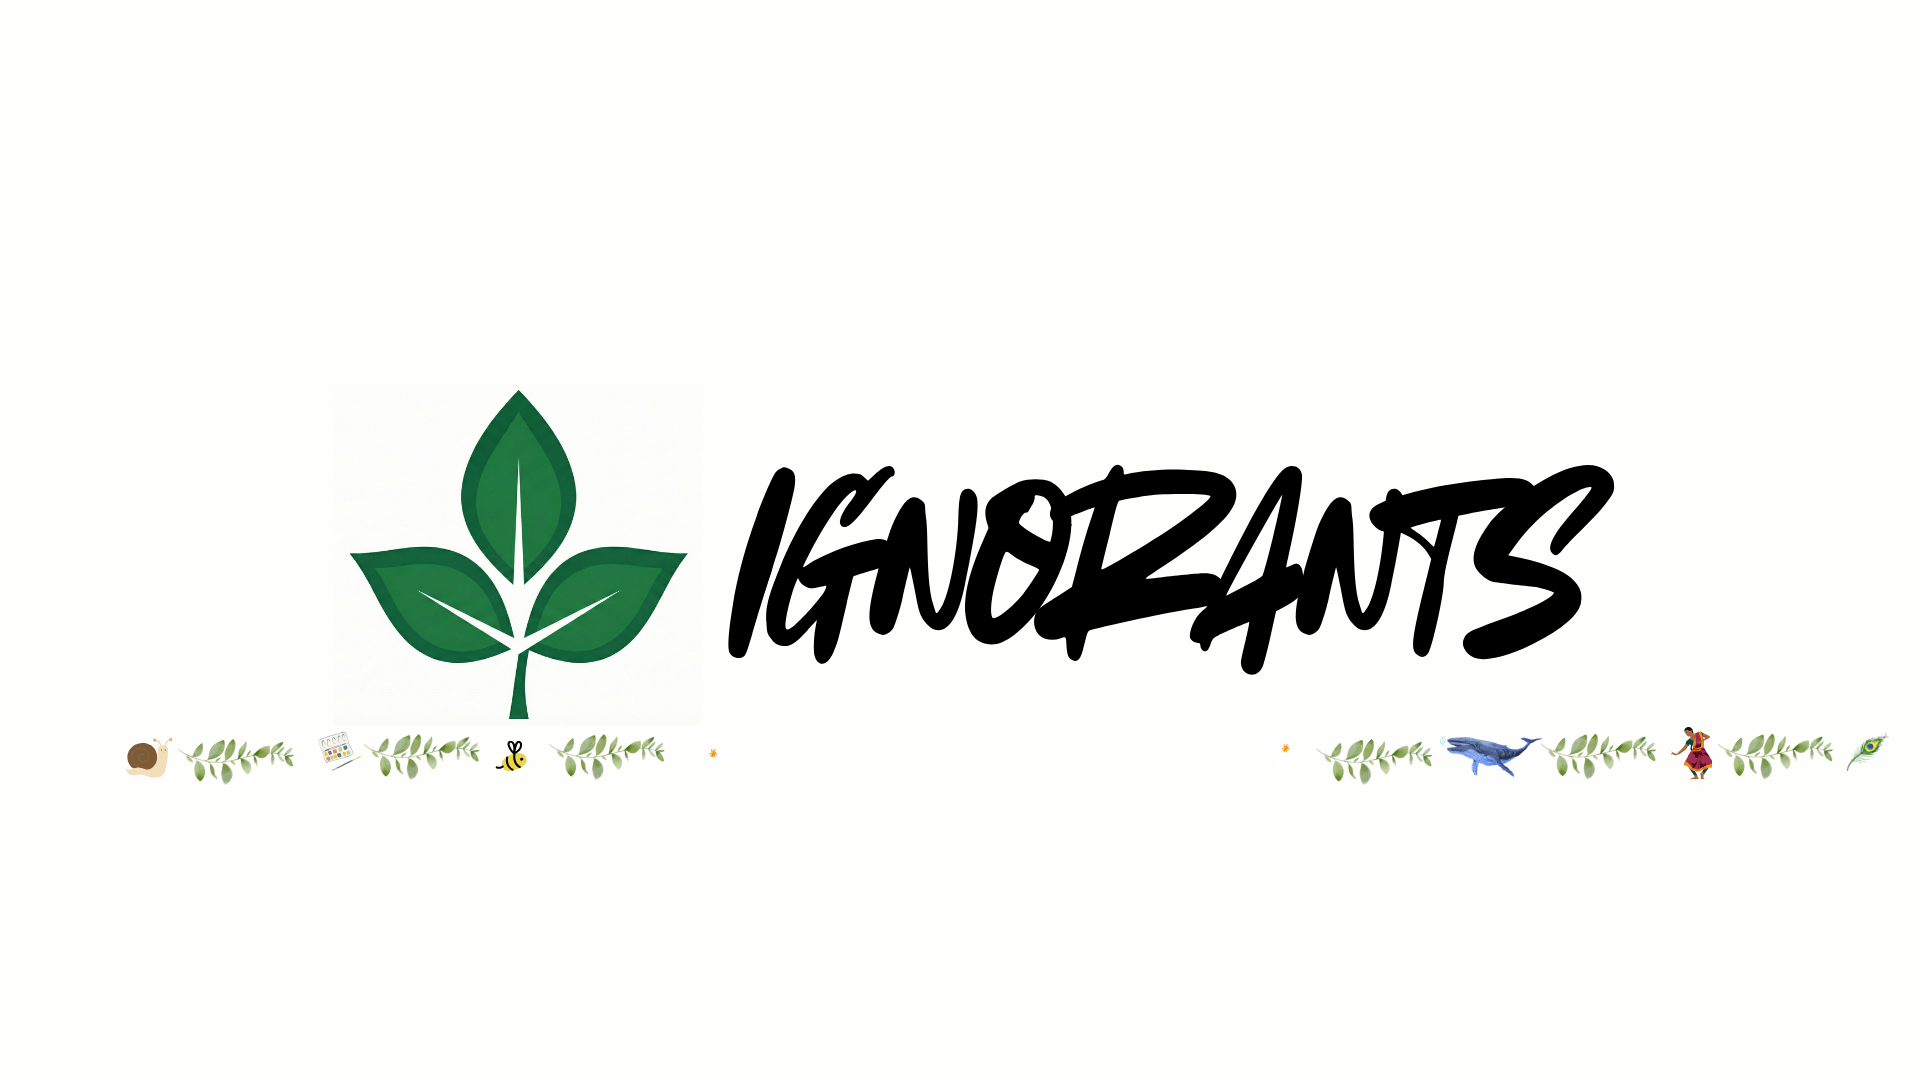
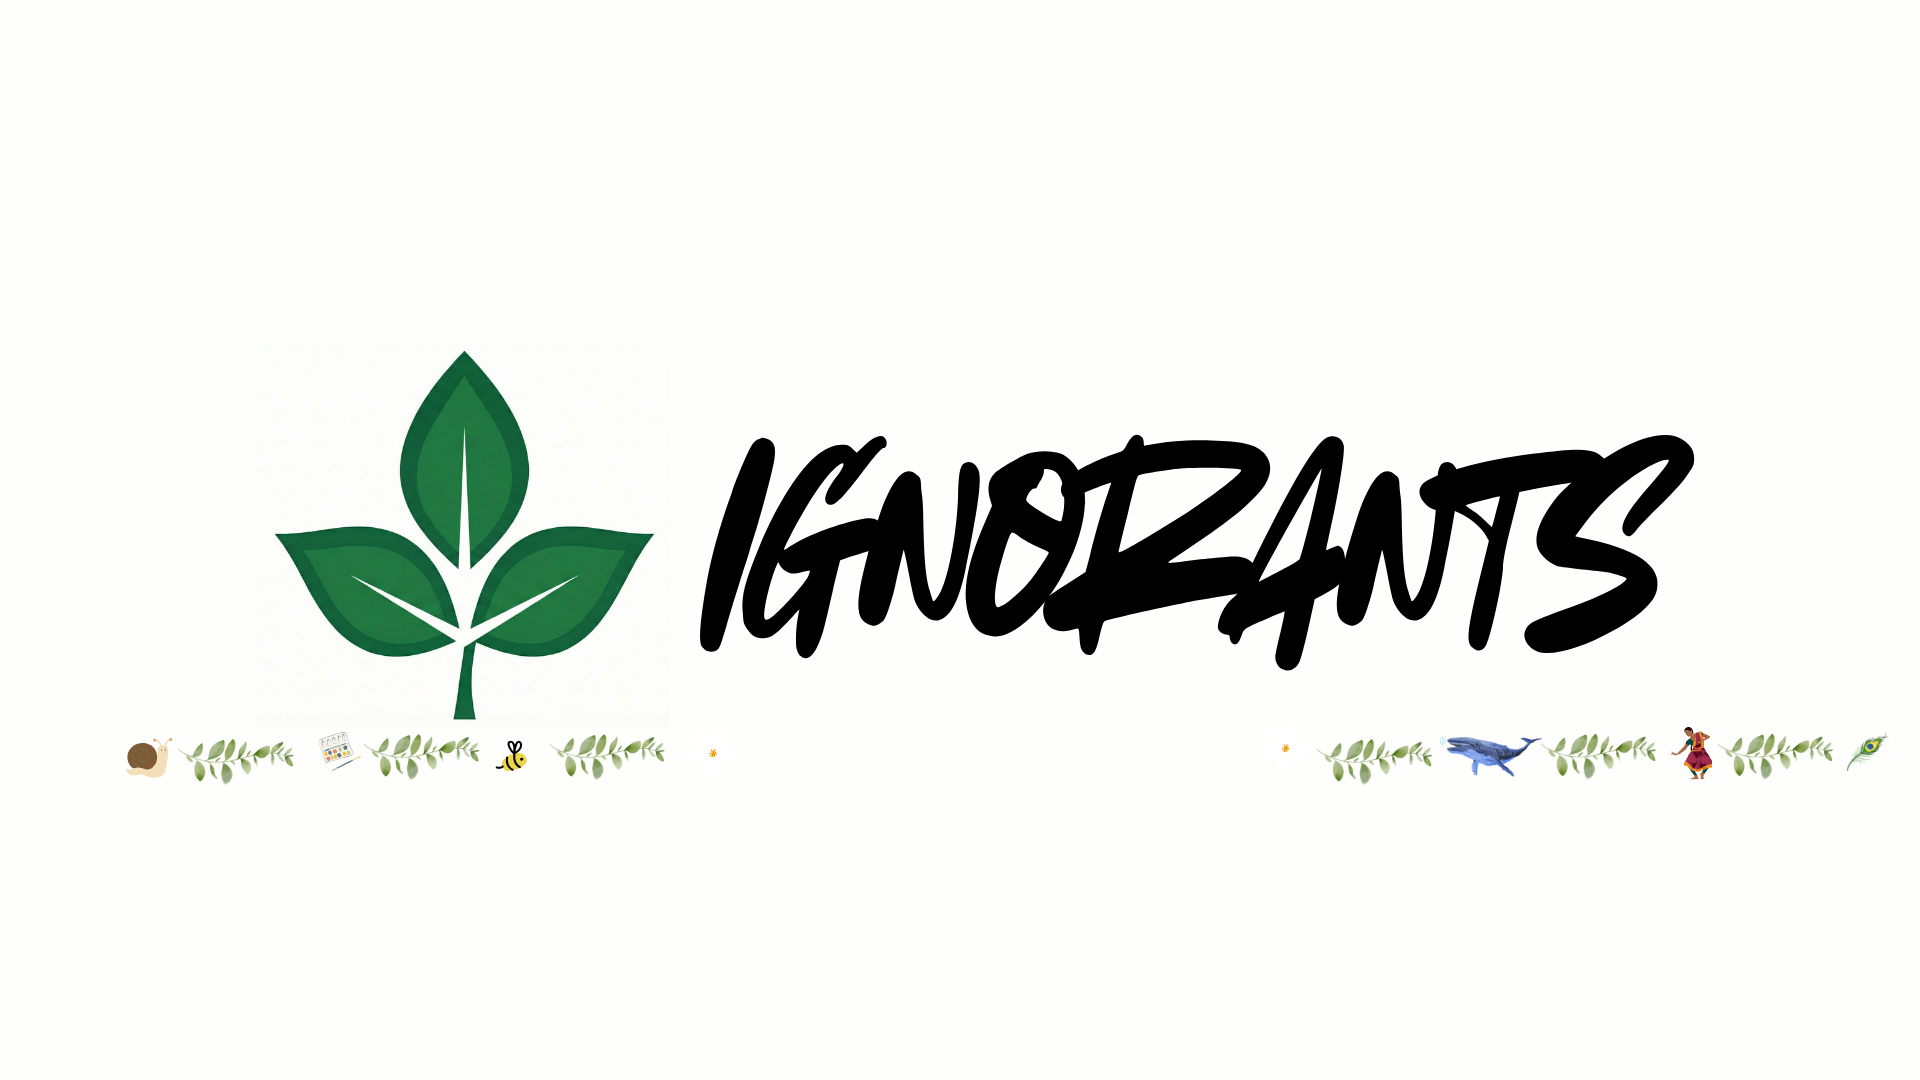
Implement island-style layout with watercolor gaps

Changed region(s): [[0.125, 0.3361, 0.9062, 0.6722]]

diff --git a/_layouts/home.html b/_layouts/home.html
@@ -76,31 +76,13 @@
     max-width: 900px;
     margin: auto;
     color: #2c2c2c;
-    background-color: rgba(255, 255, 255, 0.45);
+    background-color: rgba(255, 255, 255, 0.85);
     font-family: Georgia, "Times New Roman", serif;
     line-height: 1.8;
     border-radius: 20px;
-    box-shadow: 0 8px 32px rgba(0, 0, 0, 0.1);
-    backdrop-filter: blur(10px);
-    margin-top: 20px;
+    margin-top: 40px;
     margin-bottom: 40px;
     position: relative;
-  }
-
-  main::before {
-    content: "";
-    position: absolute;
-    top: -10px;
-    left: -10px;
-    right: -10px;
-    bottom: -10px;
-    background: linear-gradient(135deg, 
-      rgba(232, 190, 145, 0.2), 
-      rgba(215, 175, 135, 0.18),
-      rgba(200, 160, 120, 0.15));
-    border-radius: 25px;
-    z-index: -1;
-    filter: blur(25px);
   }
 
   main h1 {

diff --git a/science.md b/science.md
@@ -5,15 +5,64 @@ permalink: /science/
 ---
 
 <style>
-  /* Styling for science posts */
-  .science-post {
-    margin-bottom: 15px;
-    padding-bottom: 15px;
-    border-bottom: 1px solid #e0e0e0;
+  /* Remove main card background for science page */
+  main {
+    background-color: transparent !important;
+    box-shadow: none !important;
+  }
+  
+  main::before {
+    display: none !important;
   }
 
-  .science-post:last-child {
-    border-bottom: none;
+  /* Intro section with cream background */
+  .science-intro {
+    padding: 40px 30px;
+    background-color: rgba(255, 255, 255, 0.85);
+    border-radius: 20px;
+    margin-bottom: 40px;
+    position: relative;
+  }
+
+  .science-intro::before {
+    content: "";
+    position: absolute;
+    top: -10px;
+    left: -10px;
+    right: -10px;
+    bottom: -10px;
+    background: linear-gradient(135deg, 
+      rgba(232, 190, 145, 0.2), 
+      rgba(215, 175, 135, 0.18),
+      rgba(200, 160, 120, 0.15));
+    border-radius: 25px;
+    z-index: -1;
+    filter: blur(25px);
+  }
+
+  /* Styling for science posts - each gets its own cream card */
+  .science-post {
+    margin-bottom: 40px;
+    padding: 30px;
+    background-color: rgba(255, 255, 255, 0.85);
+    border-radius: 20px;
+    position: relative;
+  }
+
+  .science-post::before {
+    content: "";
+    position: absolute;
+    top: -10px;
+    left: -10px;
+    right: -10px;
+    bottom: -10px;
+    background: linear-gradient(135deg, 
+      rgba(232, 190, 145, 0.2), 
+      rgba(215, 175, 135, 0.18),
+      rgba(200, 160, 120, 0.15));
+    border-radius: 25px;
+    z-index: -1;
+    filter: blur(25px);
   }
 
   .science-post h1 {
@@ -57,21 +106,21 @@ permalink: /science/
   }
 </style>
 
-<!-- Centered page title -->
-<h1 style="text-align: center; font-weight: bold; color: #000; font-size: 56px; margin-bottom: 50px; line-height:1;">
-  The 3AM Page
-</h1>
-<p style="text-align: left; font-weight:bold; font-size: 28px; color: #48474cff; margin-bottom: 5px; line-height:1;">
-  Why 3AM?
-</p>
+<div class="science-intro">
+  <!-- Centered page title -->
+  <h1 style="text-align: center; font-weight: bold; color: #000; font-size: 56px; margin-bottom: 50px; line-height:1;">
+    The 3AM Page
+  </h1>
+  <p style="text-align: left; font-weight:bold; font-size: 28px; color: #48474cff; margin-bottom: 5px; line-height:1;">
+    Why 3AM?
+  </p>
 
-<!-- Why 3AM text -->
-<p style="text-align: left; color: #48474cff; font-size: 20px; margin-bottom: 75px; line-height:1.5;">
-  Partly because the name sounded like a really good one when it first occurred to me at 4 (and not 3) AM in the morning.
-  Partly because 3 AM stands for <i>An Article A Month</i>— more or less.
-</p>
-
-<div style="border-top: 1px solid #e0e0e0; margin-bottom: 15px;"></div>
+  <!-- Why 3AM text -->
+  <p style="text-align: left; color: #48474cff; font-size: 20px; margin-bottom: 0; line-height:1.5;">
+    Partly because the name sounded like a really good one when it first occurred to me at 4 (and not 3) AM in the morning.
+    Partly because 3 AM stands for <i>An Article A Month</i>— more or less.
+  </p>
+</div>
 
 {% assign sorted_posts = site.science | sort: "date" | reverse %}
 

diff --git a/prose.md b/prose.md
@@ -5,7 +5,32 @@ permalink: /prose/
 ---
 
 <style>
-  /* Less space between poem title and date */
+  /* Remove main card background */
+  main {
+    background-color: transparent !important;
+    box-shadow: none !important;
+  }
+  
+  main::before {
+    display: none !important;
+  }
+
+  /* Intro section */
+  .prose-intro {
+    padding: 40px 30px;
+    background-color: rgba(255, 255, 255, 0.85);
+    border-radius: 20px;
+    margin-bottom: 40px;
+  }
+
+  /* Each poem as white card */
+  .prose-poem {
+    margin-bottom: 40px;
+    padding: 25px 30px;
+    background-color: rgba(255, 255, 255, 0.85);
+    border-radius: 20px;
+  }
+
   .prose-poem h2 {
     margin-bottom: 4px;
   }
@@ -14,20 +39,17 @@ permalink: /prose/
     margin-top: 0;
     margin-bottom: 0;
   }
-
-  /* More space between each poem block */
-  .prose-poem {
-    margin-bottom: 35px;
-  }
 </style>
 
-<!-- Centered page title -->
-<h1 style="text-align: center; font-weight: bold; color: #000; font-size: 56px; margin-bottom: 0px; line-height:1;">
-  Flow
-</h1>
-<p style="text-align: center; color: #48474cff; margin-bottom: 5px; line-height:1;">
-  A Curation of Poetry and Prose
-</p>
+<div class="prose-intro">
+  <!-- Centered page title -->
+  <h1 style="text-align: center; font-weight: bold; color: #000; font-size: 56px; margin-bottom: 0px; line-height:1;">
+    Flow
+  </h1>
+  <p style="text-align: center; color: #48474cff; margin-bottom: 0; line-height:1;">
+    A Curation of Poetry and Prose
+  </p>
+</div>
 
 <!-- List all poems -->
 {% assign poems = site.prose | sort: "date" | reverse %}

diff --git a/anubhuti.md b/anubhuti.md
@@ -5,7 +5,32 @@ permalink: /anubhuti/
 ---
 
 <style>
-  /* Less space between art title and date */
+  /* Remove main card background */
+  main {
+    background-color: transparent !important;
+    box-shadow: none !important;
+  }
+  
+  main::before {
+    display: none !important;
+  }
+
+  /* Intro section */
+  .anubhuti-intro {
+    padding: 40px 30px;
+    background-color: rgba(255, 255, 255, 0.85);
+    border-radius: 20px;
+    margin-bottom: 40px;
+  }
+
+  /* Each art as white card */
+  .anubhuti {
+    margin-bottom: 40px;
+    padding: 25px 30px;
+    background-color: rgba(255, 255, 255, 0.85);
+    border-radius: 20px;
+  }
+
   .anubhuti h2 {
     margin-bottom: 4px;
   }
@@ -21,20 +46,17 @@ permalink: /anubhuti/
     margin-top: 0;
     margin-bottom: 0;
   }
-
-  /* More space between each art block */
-  .anubhuti {
-    margin-bottom: 35px;
-  }
 </style>
 
-<!-- Centered page title -->
-<h1 style="text-align: center; font-weight: bold; color: #000; font-size: 56px; margin-bottom: 0px;line-height:1;">
-  Anubhuti
-</h1>
-<p style="text-align: center; color: #48474cff; margin-bottom: 5px;line-height:1;">
-  A Feeling Beyond Words
-</p>
+<div class="anubhuti-intro">
+  <!-- Centered page title -->
+  <h1 style="text-align: center; font-weight: bold; color: #000; font-size: 56px; margin-bottom: 0px;line-height:1;">
+    Anubhuti
+  </h1>
+  <p style="text-align: center; color: #48474cff; margin-bottom: 0;line-height:1;">
+    A Feeling Beyond Words
+  </p>
+</div>
 
 
 <!-- List all art -->

diff --git a/ignorants.md b/ignorants.md
@@ -5,15 +5,31 @@ permalink: /ignorants/
 ---
 
 <style>
-  /* Styling for rants */
-  .rant {
-    margin-bottom: 15px;
-    padding-bottom: 8px;
-    border-bottom: 1px solid #e0e0e0;
+  /* Remove main card background */
+  main {
+    background-color: transparent !important;
+    box-shadow: none !important;
+  }
+  
+  main::before {
+    display: none !important;
   }
 
-  .rant:last-child {
-    border-bottom: none;
+  /* Intro section */
+  .rant-intro {
+    padding: 40px 30px;
+    background-color: rgba(255, 255, 255, 0.85);
+    border-radius: 20px;
+    margin-bottom: 40px;
+    text-align: center;
+  }
+
+  /* Each rant as white card */
+  .rant {
+    margin-bottom: 40px;
+    padding: 25px 30px;
+    background-color: rgba(255, 255, 255, 0.85);
+    border-radius: 20px;
   }
 
   .rant-content {
@@ -37,10 +53,11 @@ permalink: /ignorants/
   }
 </style>
 
-<!-- Centered page title -->
-<h1 style="text-align: center; font-weight: bold; color: #000; font-size: 56px; margin-bottom: 40px; line-height:1;">
-  IgnoRants
-</h1>
+<div class="rant-intro">
+  <h1 style="font-weight: bold; color: #000; font-size: 56px; margin-bottom: 0; line-height:1;">
+    IgnoRants
+  </h1>
+</div>
 
 <div style="max-width: 700px; margin: 0 auto;">
   {% for post in site.IgnoRants reversed %}

diff --git a/contact.md b/contact.md
@@ -4,8 +4,15 @@ title: Contact
 permalink: /contact/
 ---
 
+<style>
+  /* Remove main card background */
+  main {
+    background-color: transparent !important;
+  }
+</style>
+
 <!-- Page container -->
-<div style="background-color: transparent; color: #000000; min-height: 80vh; padding: 50px 20px; font-family: Georgia, serif;">
+<div style="background-color: rgba(255, 255, 255, 0.85); color: #000000; padding: 50px 20px; font-family: Georgia, serif; max-width: 900px; margin: 40px auto; border-radius: 20px;">
 
   <!-- Title -->
   <h1 style="text-align: center; font-weight: bold; color: #000; font-size: 48px; margin-bottom: 20px;">
